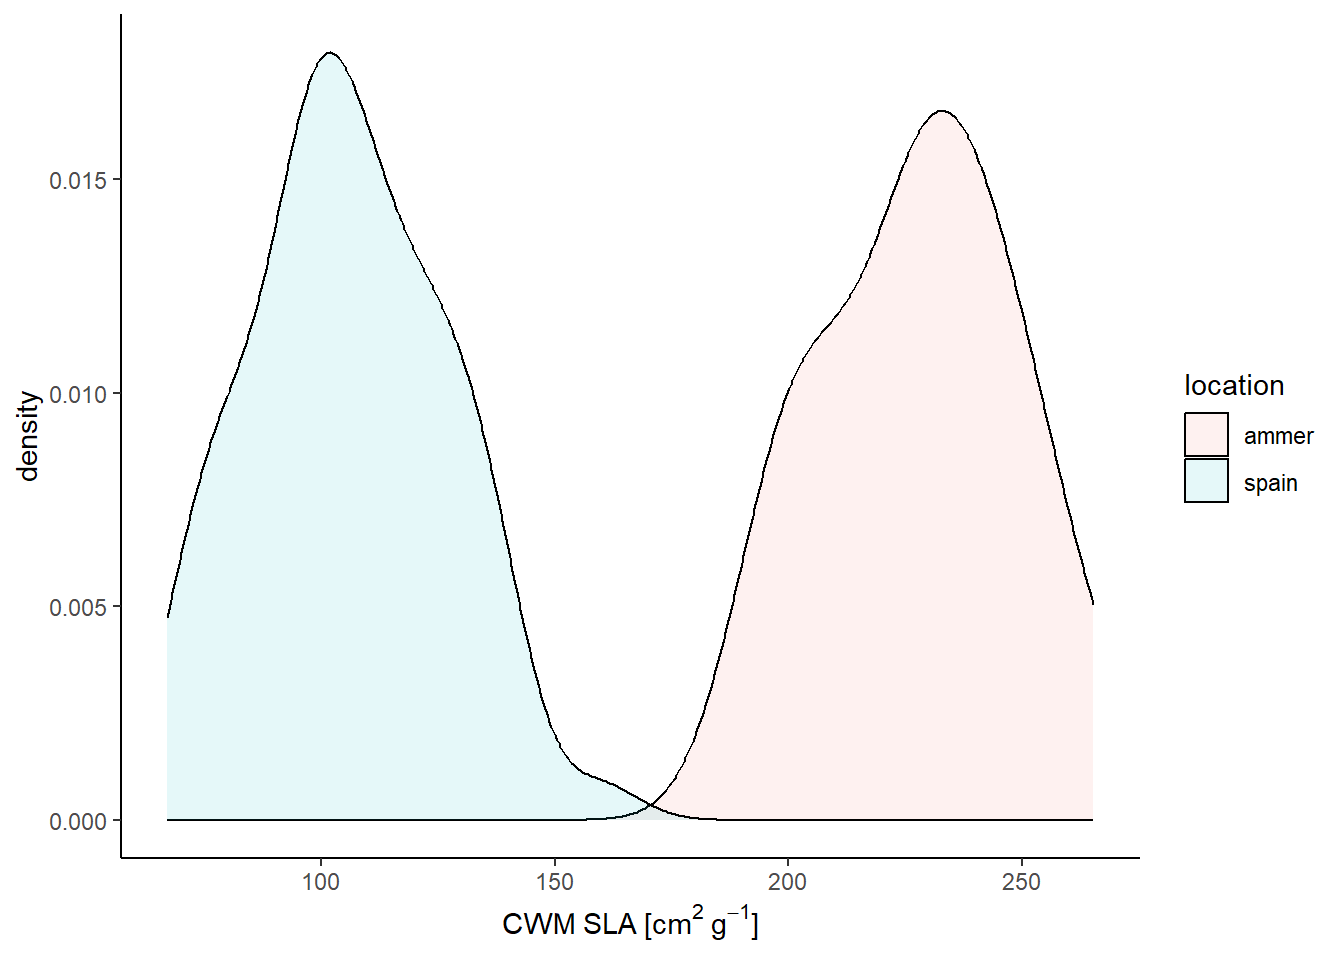
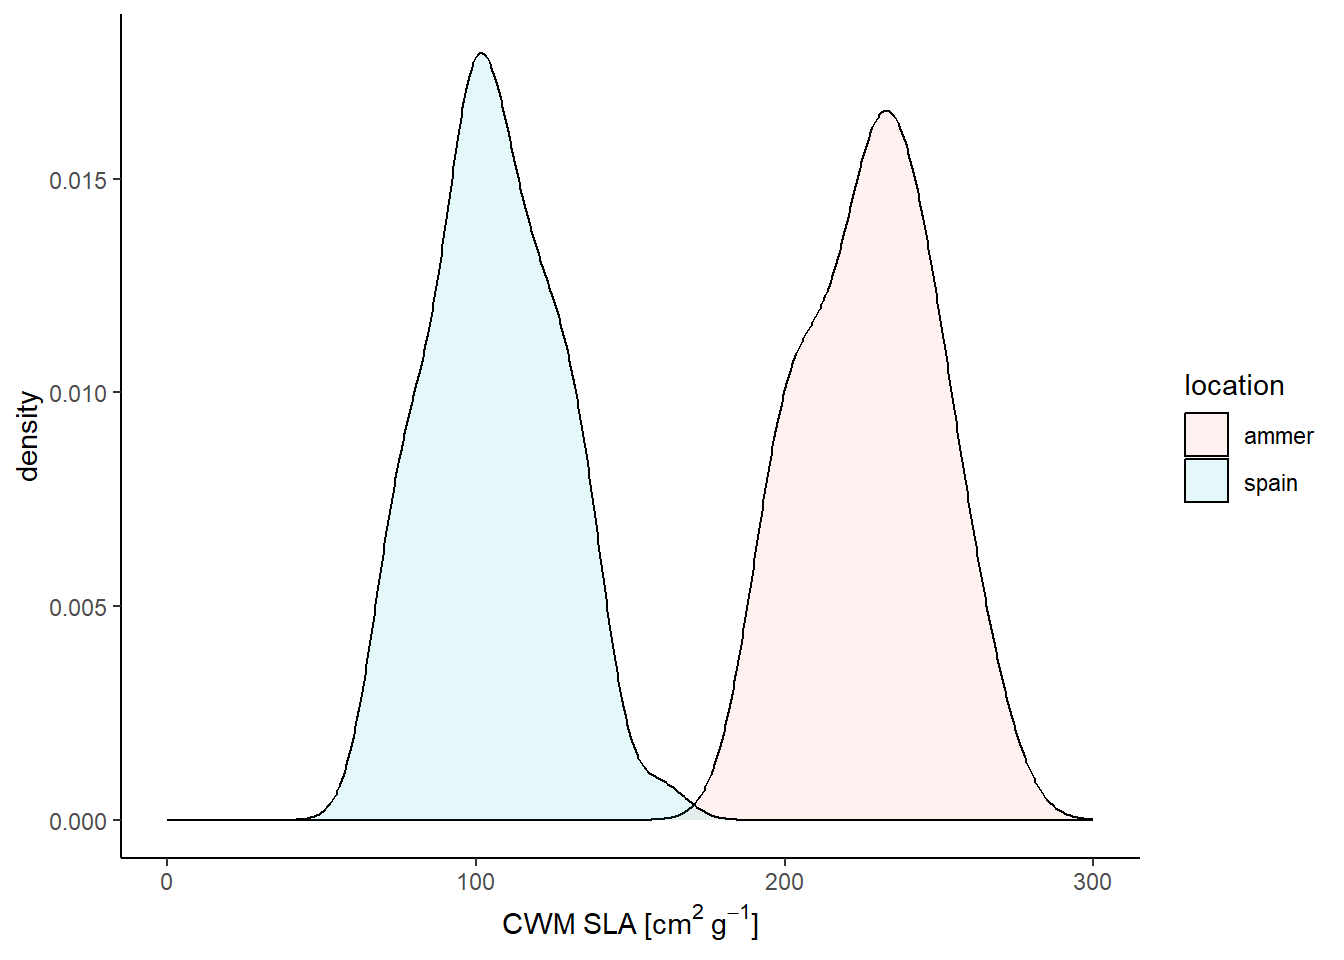
Update

diff --git a/R/course_ecodata_4_4_cwm.html b/R/course_ecodata_4_4_cwm.html
@@ -785,7 +785,7 @@ FRic: Dimensionality reduction was required. The last 106 PCoA axes (out of 113 
 </div>
 </div>
 </div>
-<p>Let’s compare the values of the Spanish dataset and the Ammer data:</p>
+<p>Let’s compare the values of the Spain dataset and the Ammer data:</p>
 <div class="cell">
 <div class="sourceCode cell-code" id="cb70"><pre class="sourceCode r code-with-copy"><code class="sourceCode r"><span id="cb70-1"><a href="#cb70-1" aria-hidden="true" tabindex="-1"></a>data_spain <span class="ot">&lt;-</span> sites_spain <span class="sc">%&gt;%</span></span>
 <span id="cb70-2"><a href="#cb70-2" aria-hidden="true" tabindex="-1"></a>  <span class="fu">select</span>(id.plot, cwm.abu.sla) <span class="sc">%&gt;%</span></span>
@@ -801,10 +801,11 @@ FRic: Dimensionality reduction was required. The last 106 PCoA axes (out of 113 
 <span id="cb70-12"><a href="#cb70-12" aria-hidden="true" tabindex="-1"></a>  <span class="fu">ggplot</span>(<span class="fu">aes</span>(<span class="at">x =</span> cwm.abu.sla, <span class="at">fill =</span> location)) <span class="sc">+</span></span>
 <span id="cb70-13"><a href="#cb70-13" aria-hidden="true" tabindex="-1"></a>  <span class="fu">geom_density</span>(<span class="at">color =</span> <span class="st">"black"</span>, <span class="at">alpha =</span> .<span class="dv">1</span>) <span class="sc">+</span></span>
 <span id="cb70-14"><a href="#cb70-14" aria-hidden="true" tabindex="-1"></a>  <span class="fu">labs</span>(<span class="at">x =</span> <span class="fu">expression</span>(CWM<span class="sc">~</span>SLA<span class="sc">~</span><span class="st">"["</span><span class="sc">*</span>cm<span class="sc">^</span><span class="dv">2</span><span class="sc">~</span>g<span class="sc">^-</span><span class="dv">1</span><span class="sc">*</span><span class="st">"]"</span>)) <span class="sc">+</span></span>
-<span id="cb70-15"><a href="#cb70-15" aria-hidden="true" tabindex="-1"></a>  <span class="fu">theme</span>(</span>
-<span id="cb70-16"><a href="#cb70-16" aria-hidden="true" tabindex="-1"></a>    <span class="at">axis.line =</span> <span class="fu">element_line</span>(<span class="at">color =</span> <span class="st">"black"</span>),</span>
-<span id="cb70-17"><a href="#cb70-17" aria-hidden="true" tabindex="-1"></a>    <span class="at">panel.background =</span> <span class="fu">element_rect</span>(<span class="at">fill =</span> <span class="st">"transparent"</span>)</span>
-<span id="cb70-18"><a href="#cb70-18" aria-hidden="true" tabindex="-1"></a>  )</span></code><button title="Copy to Clipboard" class="code-copy-button"><i class="bi"></i></button></pre></div>
+<span id="cb70-15"><a href="#cb70-15" aria-hidden="true" tabindex="-1"></a>  <span class="fu">scale_x_continuous</span>(<span class="at">limits =</span> <span class="fu">c</span>(<span class="dv">0</span>, <span class="dv">300</span>)) <span class="sc">+</span></span>
+<span id="cb70-16"><a href="#cb70-16" aria-hidden="true" tabindex="-1"></a>  <span class="fu">theme</span>(</span>
+<span id="cb70-17"><a href="#cb70-17" aria-hidden="true" tabindex="-1"></a>    <span class="at">axis.line =</span> <span class="fu">element_line</span>(<span class="at">color =</span> <span class="st">"black"</span>),</span>
+<span id="cb70-18"><a href="#cb70-18" aria-hidden="true" tabindex="-1"></a>    <span class="at">panel.background =</span> <span class="fu">element_rect</span>(<span class="at">fill =</span> <span class="st">"transparent"</span>)</span>
+<span id="cb70-19"><a href="#cb70-19" aria-hidden="true" tabindex="-1"></a>  )</span></code><button title="Copy to Clipboard" class="code-copy-button"><i class="bi"></i></button></pre></div>
 <div class="cell-output-display">
 <div>
 <figure class="figure">
@@ -813,6 +814,7 @@ FRic: Dimensionality reduction was required. The last 106 PCoA axes (out of 113 
 </div>
 </div>
 </div>
+<p>The Spain vegetation seems to have species with lower SLA values. However, the Spain data is not cleaned from shrubs and trees.</p>
 <p><a href="#top">Back to top</a></p>
 </section>
 </section>
